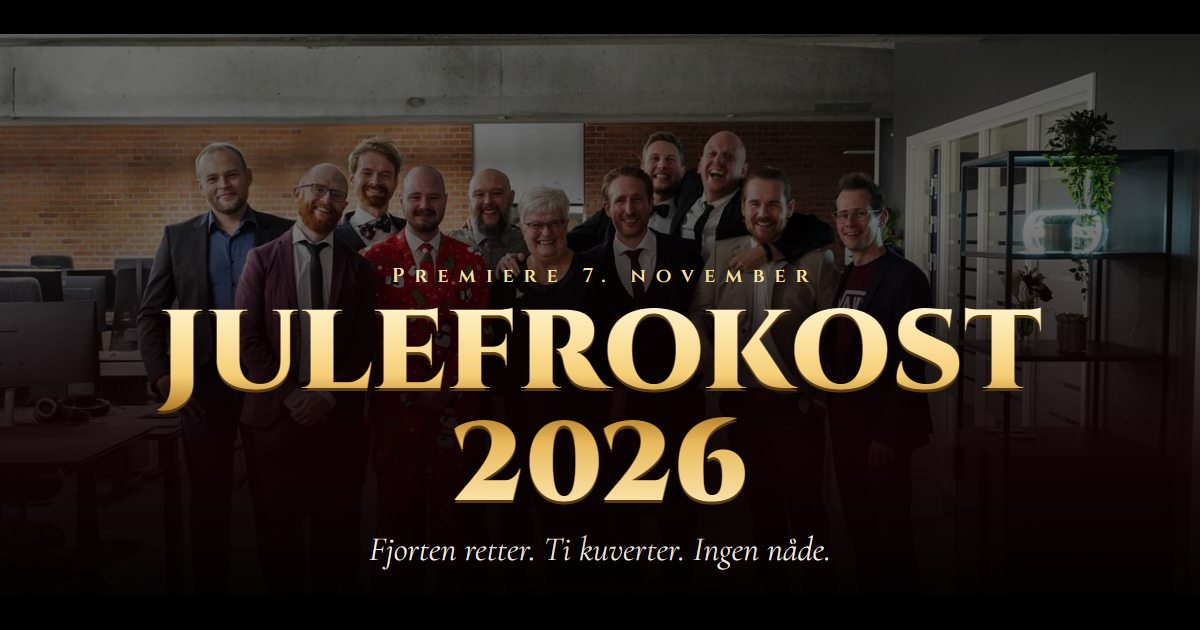
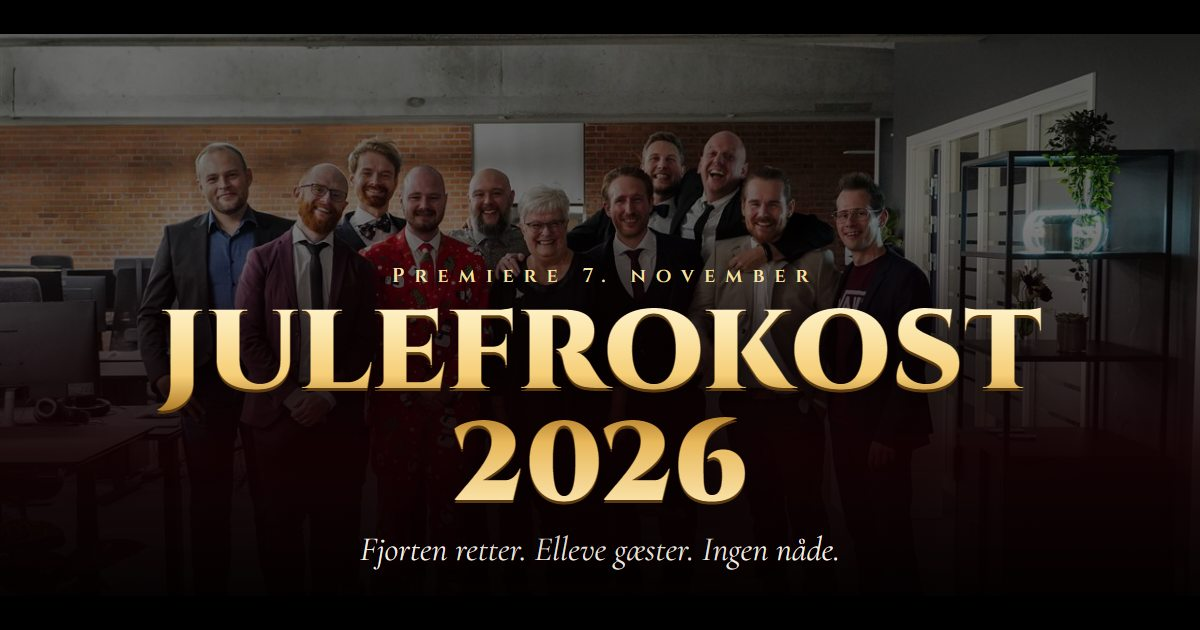
Julefrokost: del prisen på 11 personer i stedet for kuverter
Vi er 11, der deler de 10 kuverter. Al omtale af kuverter er fjernet, og
årsrapporten viser nu prisen delt på 11 (342,73 kr pr. person). Billetten
bruger gæstenummer 1-11, pakkelegen har 11 pakker, og delingsbilledet
siger "Elleve gæster".

Changed region(s): [[0.3083, 0.8444, 0.7092, 0.9048]]

diff --git a/julefrokost2026/index.html b/julefrokost2026/index.html
@@ -4,13 +4,13 @@
   <meta charset="utf-8">
   <meta name="viewport" content="width=device-width, initial-scale=1, viewport-fit=cover">
   <title>Julefrokost 2026</title>
-  <meta name="description" content="Fjorten retter. Ti kuverter. Ingen nåde. Premiere lørdag 7. november 2026 kl. 14.00 i Herning.">
+  <meta name="description" content="Fjorten retter. Elleve gæster. Ingen nåde. Premiere lørdag 7. november 2026 kl. 14.00 i Herning.">
   <meta name="robots" content="noindex, nofollow">
   <meta name="theme-color" content="#2b0308">
 
   <meta property="og:type" content="website">
   <meta property="og:title" content="Julefrokost 2026">
-  <meta property="og:description" content="Fjorten retter. Ti kuverter. Ingen nåde. Premiere lørdag 7. november kl. 14.00 i Herning.">
+  <meta property="og:description" content="Fjorten retter. Elleve gæster. Ingen nåde. Premiere lørdag 7. november kl. 14.00 i Herning.">
   <meta property="og:url" content="https://persusgaard.dk/julefrokost2026/">
   <meta property="og:image" content="https://persusgaard.dk/julefrokost2026/assets/og.jpg">
   <meta property="og:image:width" content="1200">
@@ -96,7 +96,7 @@
     <div class="trailer">
       <p>I en verden…</p>
       <p>hvor sild ikke længere er nok…</p>
-      <p>bestiller ti kuverter…</p>
+      <p>samles elleve legender…</p>
       <p>fjorten retter.</p>
       <p>Den 7. november…</p>
       <p>bliver det personligt.</p>
@@ -124,7 +124,7 @@
         <div class="hero__bund">
           <p class="hero__dato">Lørdag 7. november <span class="hero__tid">kl. 14.00</span></p>
           <p class="hero__sted">Gudenåvej 106, 7400 Herning</p>
-          <p class="hero__tagline">Fjorten retter. Ti kuverter. Ingen nåde.</p>
+          <p class="hero__tagline">Fjorten retter. Elleve gæster. Ingen nåde.</p>
           <p class="hero__rul"><span>Rul ned</span></p>
         </div>
       </div>
@@ -182,7 +182,7 @@
       <div class="akt__titel">
         <p class="akt__nr">Efter desserten</p>
         <h2 class="akt__navn guldtekst" style="--tegn:11">Pakkelegen</h2>
-        <p class="akt__under">Én terning. Ti pakker. Venskaber sat på prøve.</p>
+        <p class="akt__under">Én terning. Elleve pakker. Venskaber sat på prøve.</p>
       </div>
       <div class="gavemaerke">
         <p class="gavemaerke__til">Til: dig</p>
@@ -211,8 +211,8 @@
             <p class="tal__label">Samlet investering inkl. fragt</p>
           </div>
           <div class="noegletal__raekke">
-            <div><p class="tal tal--lille" data-taeller="377" data-suffiks=" kr">0 kr</p><p class="tal__label">Pr. kuvert</p></div>
-            <div><p class="tal tal--lille" data-taeller="26.93" data-decimaler="2" data-suffiks=" kr">0 kr</p><p class="tal__label">Pr. ret pr. kuvert</p></div>
+            <div><p class="tal tal--lille" data-taeller="342.73" data-decimaler="2" data-suffiks=" kr">0 kr</p><p class="tal__label">Pr. person, delt på 11</p></div>
+            <div><p class="tal tal--lille" data-taeller="24.48" data-decimaler="2" data-suffiks=" kr">0 kr</p><p class="tal__label">Pr. ret pr. person</p></div>
             <div><p class="tal tal--lille" data-taeller="350" data-suffiks=" kr">0 kr</p><p class="tal__label">Logistik, også kaldet fragt</p></div>
             <div><p class="tal tal--lille" data-taeller="754" data-suffiks=" kr">0 kr</p><p class="tal__label">Moms til statskassen</p></div>
           </div>

diff --git a/julefrokost2026/js/billet.js b/julefrokost2026/js/billet.js
@@ -20,7 +20,7 @@ export async function tegnBillet(canvas, navn) {
   ]);
   const ctx = canvas.getContext('2d');
   const W = canvas.width, H = canvas.height, h = hash(navn);
-  const kuvert = (h % 10) + 1, plads = PLADSER[(h >>> 4) % PLADSER.length];
+  const gaest = (h % 11) + 1, plads = PLADSER[(h >>> 4) % PLADSER.length];
   const serie = `JF26-${(h % 1e6).toString().padStart(6, '0')}`;
   const stubX = 1200, hak = 46, r = 28;
 
@@ -96,7 +96,7 @@ export async function tegnBillet(canvas, navn) {
 
   ctx.fillStyle = ink;
   ctx.font = 'italic 400 38px "Cormorant Garamond"';
-  ctx.fillText(`Kuvert ${kuvert} af 10 · ${plads}`, stubX / 2, 580);
+  ctx.fillText(`Gæst ${gaest} af 11 · ${plads}`, stubX / 2, 580);
   ctx.font = '700 22px Cinzel';
   ctx.letterSpacing = '4px';
   ctx.fillStyle = velour;
@@ -108,11 +108,11 @@ export async function tegnBillet(canvas, navn) {
   const sx = stubX + (W - stubX) / 2;
   ctx.font = '700 22px Cinzel';
   ctx.letterSpacing = '6px';
-  ctx.fillText('KUVERT', sx, 120);
+  ctx.fillText('NR.', sx, 120);
   ctx.letterSpacing = '0px';
   ctx.fillStyle = velour;
   ctx.font = '900 150px Cinzel';
-  ctx.fillText(String(kuvert).padStart(2, '0'), sx, 268);
+  ctx.fillText(String(gaest).padStart(2, '0'), sx, 268);
   ctx.fillStyle = ink;
   // Stregkode
   let bx = stubX + 70;

diff --git a/julefrokost2026/julefrokost.css b/julefrokost2026/julefrokost.css
@@ -578,7 +578,8 @@ body.uden-webgl .hero__fallback { display: block; }
 .terning__side--4 { transform: rotateY(-90deg) translateZ(calc(var(--s) / 2)); }
 .terning__side--5 { transform: rotateX(90deg) translateZ(calc(var(--s) / 2)); }
 .terning__side--2 { transform: rotateX(-90deg) translateZ(calc(var(--s) / 2)); }
-.pakkebord { width: 100%; max-width: 560px; margin-top: 1.6rem; display: grid; grid-template-columns: repeat(5, minmax(0, 1fr)); gap: clamp(.3rem, 2vw, 1rem); }
+.pakkebord { --gab: clamp(.3rem, 2vw, 1rem); width: 100%; max-width: 620px; margin-top: 1.6rem; display: flex; flex-wrap: wrap; justify-content: center; gap: var(--gab); }
+.pakke { width: calc((100% - 5 * var(--gab)) / 6); }
 .pakke svg { width: 100%; height: auto; overflow: visible; filter: drop-shadow(0 8px 12px rgba(0, 0, 0, .5)); }
 .vundet { list-style: none; padding: 0; display: flex; flex-wrap: wrap; justify-content: center; gap: .5rem; }
 .vundet li {

diff --git a/julefrokost2026/js/regnskab.js b/julefrokost2026/js/regnskab.js
@@ -105,10 +105,11 @@ function tegnDonut(fig) {
   fig.appendChild(leg);
   fig.insertAdjacentHTML('beforeend', `<details><summary>Vis som tabel</summary><table>
     <tr><th>Post</th><th>Beløb</th></tr>
-    <tr><td>10 kuverter à ${kr(REGNSKAB.prisPrKuvert)} kr</td><td>${kr(mad)} kr</td></tr>
+    <tr><td>Maden, 14 retter</td><td>${kr(mad)} kr</td></tr>
     <tr><td>Fragt</td><td>${kr(fragt)} kr</td></tr>
     <tr><td>Total</td><td>${kr(total)} kr</td></tr>
-    <tr><td>Heraf moms</td><td>${kr(REGNSKAB.moms)} kr</td></tr></table></details>`);
+    <tr><td>Heraf moms</td><td>${kr(REGNSKAB.moms)} kr</td></tr>
+    <tr><td>Pr. person, delt på ${REGNSKAB.personer}</td><td>${kr(total / REGNSKAB.personer, 2)} kr</td></tr></table></details>`);
 
   return (gsap) => buer.forEach(({ c, laengde, omkreds: o }, i) => {
     const s = { l: 0 };

diff --git a/julefrokost2026/js/main.js b/julefrokost2026/js/main.js
@@ -476,7 +476,7 @@ function opsaetNedtaelling() {
       'BEGIN:VEVENT', 'UID:julefrokost-2026@persusgaard.dk', 'DTSTAMP:20261021T120000Z',
       'DTSTART:20261107T130000Z', 'DTEND:20261108T010000Z', 'SUMMARY:Julefrokost 2026',
       'LOCATION:Gudenåvej 106\\, 7400 Herning',
-      'DESCRIPTION:Fjorten retter. Ti kuverter. Ingen nåde. Husk en pakke til pakkelegen (50 kr\\, må gerne overskrides). https://persusgaard.dk/julefrokost2026/',
+      'DESCRIPTION:Fjorten retter. Elleve gæster. Ingen nåde. Husk en pakke til pakkelegen (50 kr\\, må gerne overskrides). https://persusgaard.dk/julefrokost2026/',
       'URL:https://persusgaard.dk/julefrokost2026/', 'END:VEVENT', 'END:VCALENDAR',
     ].join('\r\n');
     const url = URL.createObjectURL(new Blob([ics], { type: 'text/calendar;charset=utf-8' }));

diff --git a/julefrokost2026/js/pakkeleg.js b/julefrokost2026/js/pakkeleg.js
@@ -1,9 +1,9 @@
-// Pakkelegen: slå en sekser, tag en pakke. Ti pakker på bordet, ingen nåde.
+// Pakkelegen: slå en sekser, tag en pakke. Elleve pakker på bordet, én pr. gæst.
 
-const ANTAL = 10;
+const ANTAL = 11;
 const FARVER = [
   ['#7a0e1a', '#e7b95c'], ['#1f5a35', '#f3e9d2'], ['#1d3f8f', '#fbe6a6'], ['#e7b95c', '#7a0e1a'], ['#f3e9d2', '#b01c2e'],
-  ['#5b1a3a', '#e7b95c'], ['#b01c2e', '#f6f0e4'], ['#2f4a2c', '#e7b95c'], ['#8e5e1e', '#f6f0e4'], ['#0d2a3a', '#e7b95c'],
+  ['#5b1a3a', '#e7b95c'], ['#b01c2e', '#f6f0e4'], ['#2f4a2c', '#e7b95c'], ['#8e5e1e', '#f6f0e4'], ['#0d2a3a', '#e7b95c'], ['#e7b95c', '#1f5a35'],
 ];
 const INDHOLD = [
   'Uldsokker i str. 46', 'Et skrabelod uden gevinst', 'En lille Gammel Dansk', 'Et duftlys med “vinterbær”',

diff --git a/julefrokost2026/js/data.js b/julefrokost2026/js/data.js
@@ -76,7 +76,7 @@ export const RISALAMANDE = {
   stats: [65, 5, 100, 30],
 };
 
-export const REGNSKAB = { kuverter: 10, prisPrKuvert: 342, mad: 3420, fragt: 350, total: 3770, moms: 754, retter: 14 };
+export const REGNSKAB = { personer: 11, mad: 3420, fragt: 350, total: 3770, moms: 754, retter: 14 };
 
 export const STEMNING = [
   ['14:00', 40], ['15:30', 64], ['17:00', 82], ['18:30', 66, 'Syltedippet'],
